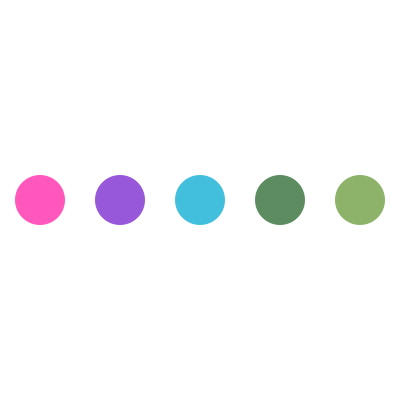
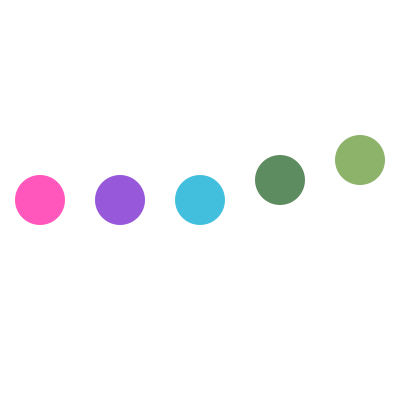
new loading animation

Changed region(s): [[0.84, 0.33, 0.96, 0.57], [0.63, 0.39, 0.78, 0.57]]

diff --git a/music_starter.js b/music_starter.js
@@ -32,7 +32,7 @@ function draw_one_frame(words, vocal, drum, bass, other, counter) {
     globe.push(loadImage('assets/globe/0.png'));globe.push(loadImage('assets/globe/1.png'));globe.push(loadImage('assets/globe/2.png'));globe.push(loadImage('assets/globe/3.png'));globe.push(loadImage('assets/globe/4.png'));globe.push(loadImage('assets/globe/5.png'));globe.push(loadImage('assets/globe/6.png'));globe.push(loadImage('assets/globe/7.png'));globe.push(loadImage('assets/globe/8.png'));globe.push(loadImage('assets/globe/9.png'));globe.push(loadImage('assets/globe/10.png'));globe.push(loadImage('assets/globe/11.png'));globe.push(loadImage('assets/globe/12.png'));globe.push(loadImage('assets/globe/13.png'));globe.push(loadImage('assets/globe/14.png'));globe.push(loadImage('assets/globe/15.png'));globe.push(loadImage('assets/globe/16.png'));globe.push(loadImage('assets/globe/17.png'));globe.push(loadImage('assets/globe/18.png'));globe.push(loadImage('assets/globe/19.png'));globe.push(loadImage('assets/globe/20.png'));globe.push(loadImage('assets/globe/21.png'));globe.push(loadImage('assets/globe/22.png'));globe.push(loadImage('assets/globe/23.png'));globe.push(loadImage('assets/globe/24.png'));globe.push(loadImage('assets/globe/25.png'));globe.push(loadImage('assets/globe/26.png'));globe.push(loadImage('assets/globe/27.png'));globe.push(loadImage('assets/globe/28.png'));globe.push(loadImage('assets/globe/29.png'));globe.push(loadImage('assets/globe/30.png'));globe.push(loadImage('assets/globe/31.png'));globe.push(loadImage('assets/globe/32.png'));globe.push(loadImage('assets/globe/33.png'));globe.push(loadImage('assets/globe/34.png'));globe.push(loadImage('assets/globe/35.png'));globe.push(loadImage('assets/globe/36.png'));globe.push(loadImage('assets/globe/37.png'));globe.push(loadImage('assets/globe/38.png'));globe.push(loadImage('assets/globe/39.png'));globe.push(loadImage('assets/globe/40.png'));globe.push(loadImage('assets/globe/41.png'));globe.push(loadImage('assets/globe/42.png'));globe.push(loadImage('assets/globe/43.png'));globe.push(loadImage('assets/globe/44.png'));globe.push(loadImage('assets/globe/45.png'));globe.push(loadImage('assets/globe/46.png'));globe.push(loadImage('assets/globe/47.png'));globe.push(loadImage('assets/globe/48.png'));globe.push(loadImage('assets/globe/49.png'));globe.push(loadImage('assets/globe/50.png'));globe.push(loadImage('assets/globe/51.png'));globe.push(loadImage('assets/globe/52.png'));globe.push(loadImage('assets/globe/53.png'));globe.push(loadImage('assets/globe/54.png'));globe.push(loadImage('assets/globe/55.png'));globe.push(loadImage('assets/globe/56.png'));globe.push(loadImage('assets/globe/57.png'));globe.push(loadImage('assets/globe/58.png'));globe.push(loadImage('assets/globe/59.png'));globe.push(loadImage('assets/globe/60.png'));globe.push(loadImage('assets/globe/61.png'));globe.push(loadImage('assets/globe/62.png'));globe.push(loadImage('assets/globe/63.png'));globe.push(loadImage('assets/globe/64.png'));globe.push(loadImage('assets/globe/65.png'));globe.push(loadImage('assets/globe/66.png'));globe.push(loadImage('assets/globe/67.png'));globe.push(loadImage('assets/globe/68.png'));globe.push(loadImage('assets/globe/69.png'));globe.push(loadImage('assets/globe/70.png'));globe.push(loadImage('assets/globe/71.png'));globe.push(loadImage('assets/globe/72.png'));globe.push(loadImage('assets/globe/73.png'));globe.push(loadImage('assets/globe/74.png'));globe.push(loadImage('assets/globe/75.png'));globe.push(loadImage('assets/globe/76.png'));globe.push(loadImage('assets/globe/77.png'));globe.push(loadImage('assets/globe/78.png'));globe.push(loadImage('assets/globe/79.png'));globe.push(loadImage('assets/globe/80.png'));globe.push(loadImage('assets/globe/81.png'));globe.push(loadImage('assets/globe/82.png'));globe.push(loadImage('assets/globe/83.png'));globe.push(loadImage('assets/globe/84.png'));globe.push(loadImage('assets/globe/85.png'));globe.push(loadImage('assets/globe/86.png'));globe.push(loadImage('assets/globe/87.png'));globe.push(loadImage('assets/globe/88.png'));globe.push(loadImage('assets/globe/89.png'));
     noiseOverlay.push(loadImage('assets/bg/noise_0.png'));noiseOverlay.push(loadImage('assets/bg/noise_1.png'));noiseOverlay.push(loadImage('assets/bg/noise_2.png'));noiseOverlay.push(loadImage('assets/bg/noise_3.png'));noiseOverlay.push(loadImage('assets/bg/noise_4.png'));noiseOverlay.push(loadImage('assets/bg/noise_5.png'));noiseOverlay.push(loadImage('assets/bg/noise_6.png'));noiseOverlay.push(loadImage('assets/bg/noise_7.png'));noiseOverlay.push(loadImage('assets/bg/noise_8.png'));noiseOverlay.push(loadImage('assets/bg/noise_9.png'));noiseOverlay.push(loadImage('assets/bg/noise_10.png'));noiseOverlay.push(loadImage('assets/bg/noise_11.png'));
     scrollingText.push(loadImage('assets/text/0.png'));scrollingText.push(loadImage('assets/text/1.png'));scrollingText.push(loadImage('assets/text/2.png'));scrollingText.push(loadImage('assets/text/3.png'));scrollingText.push(loadImage('assets/text/4.png'));scrollingText.push(loadImage('assets/text/5.png'));scrollingText.push(loadImage('assets/text/6.png'));scrollingText.push(loadImage('assets/text/7.png'));scrollingText.push(loadImage('assets/text/8.png'));scrollingText.push(loadImage('assets/text/9.png'));scrollingText.push(loadImage('assets/text/10.png'));scrollingText.push(loadImage('assets/text/11.png'));scrollingText.push(loadImage('assets/text/12.png'));scrollingText.push(loadImage('assets/text/13.png'));scrollingText.push(loadImage('assets/text/14.png'));scrollingText.push(loadImage('assets/text/15.png'));scrollingText.push(loadImage('assets/text/16.png'));scrollingText.push(loadImage('assets/text/17.png'));scrollingText.push(loadImage('assets/text/18.png'));scrollingText.push(loadImage('assets/text/19.png'));scrollingText.push(loadImage('assets/text/20.png'));scrollingText.push(loadImage('assets/text/21.png'));scrollingText.push(loadImage('assets/text/22.png'));scrollingText.push(loadImage('assets/text/23.png'));scrollingText.push(loadImage('assets/text/24.png'));scrollingText.push(loadImage('assets/text/25.png'));scrollingText.push(loadImage('assets/text/26.png'));scrollingText.push(loadImage('assets/text/27.png'));scrollingText.push(loadImage('assets/text/28.png'));scrollingText.push(loadImage('assets/text/29.png'));scrollingText.push(loadImage('assets/text/30.png'));scrollingText.push(loadImage('assets/text/31.png'));scrollingText.push(loadImage('assets/text/32.png'));scrollingText.push(loadImage('assets/text/33.png'));scrollingText.push(loadImage('assets/text/34.png'));scrollingText.push(loadImage('assets/text/35.png'));scrollingText.push(loadImage('assets/text/36.png'));scrollingText.push(loadImage('assets/text/37.png'));scrollingText.push(loadImage('assets/text/38.png'));scrollingText.push(loadImage('assets/text/39.png'));scrollingText.push(loadImage('assets/text/40.png'));scrollingText.push(loadImage('assets/text/41.png'));scrollingText.push(loadImage('assets/text/42.png'));scrollingText.push(loadImage('assets/text/43.png'));scrollingText.push(loadImage('assets/text/44.png'));scrollingText.push(loadImage('assets/text/45.png'));scrollingText.push(loadImage('assets/text/46.png'));scrollingText.push(loadImage('assets/text/47.png'));scrollingText.push(loadImage('assets/text/48.png'));scrollingText.push(loadImage('assets/text/49.png'));scrollingText.push(loadImage('assets/text/50.png'));scrollingText.push(loadImage('assets/text/51.png'));scrollingText.push(loadImage('assets/text/52.png'));scrollingText.push(loadImage('assets/text/53.png'));scrollingText.push(loadImage('assets/text/54.png'));scrollingText.push(loadImage('assets/text/55.png'));scrollingText.push(loadImage('assets/text/56.png'));scrollingText.push(loadImage('assets/text/57.png'));scrollingText.push(loadImage('assets/text/58.png'));scrollingText.push(loadImage('assets/text/59.png'));scrollingText.push(loadImage('assets/text/60.png'));scrollingText.push(loadImage('assets/text/61.png'));scrollingText.push(loadImage('assets/text/62.png'));scrollingText.push(loadImage('assets/text/63.png'));scrollingText.push(loadImage('assets/text/64.png'));scrollingText.push(loadImage('assets/text/65.png'));scrollingText.push(loadImage('assets/text/66.png'));scrollingText.push(loadImage('assets/text/67.png'));scrollingText.push(loadImage('assets/text/68.png'));scrollingText.push(loadImage('assets/text/69.png'));scrollingText.push(loadImage('assets/text/70.png'));scrollingText.push(loadImage('assets/text/71.png'));scrollingText.push(loadImage('assets/text/72.png'));scrollingText.push(loadImage('assets/text/73.png'));scrollingText.push(loadImage('assets/text/74.png'));scrollingText.push(loadImage('assets/text/75.png'));scrollingText.push(loadImage('assets/text/76.png'));scrollingText.push(loadImage('assets/text/77.png'));scrollingText.push(loadImage('assets/text/78.png'));scrollingText.push(loadImage('assets/text/79.png'));scrollingText.push(loadImage('assets/text/80.png'));scrollingText.push(loadImage('assets/text/81.png'));scrollingText.push(loadImage('assets/text/82.png'));scrollingText.push(loadImage('assets/text/83.png'));scrollingText.push(loadImage('assets/text/84.png'));scrollingText.push(loadImage('assets/text/85.png'));scrollingText.push(loadImage('assets/text/86.png'));scrollingText.push(loadImage('assets/text/87.png'));scrollingText.push(loadImage('assets/text/88.png'));scrollingText.push(loadImage('assets/text/89.png'));scrollingText.push(loadImage('assets/text/90.png'));scrollingText.push(loadImage('assets/text/91.png'));scrollingText.push(loadImage('assets/text/92.png'));scrollingText.push(loadImage('assets/text/93.png'));
-    loading.push(loadImage('assets/loading/0.png'));loading.push(loadImage('assets/loading/1.png'));loading.push(loadImage('assets/loading/2.png'));loading.push(loadImage('assets/loading/3.png'));loading.push(loadImage('assets/loading/4.png'));loading.push(loadImage('assets/loading/5.png'));loading.push(loadImage('assets/loading/6.png'));loading.push(loadImage('assets/loading/7.png'));loading.push(loadImage('assets/loading/8.png'));loading.push(loadImage('assets/loading/9.png'));loading.push(loadImage('assets/loading/10.png'));loading.push(loadImage('assets/loading/11.png'));loading.push(loadImage('assets/loading/12.png'));loading.push(loadImage('assets/loading/13.png'));loading.push(loadImage('assets/loading/14.png'));
+    loading.push(loadImage('assets/loading/0.png'));loading.push(loadImage('assets/loading/1.png'));loading.push(loadImage('assets/loading/2.png'));loading.push(loadImage('assets/loading/3.png'));loading.push(loadImage('assets/loading/4.png'));loading.push(loadImage('assets/loading/5.png'));loading.push(loadImage('assets/loading/6.png'));loading.push(loadImage('assets/loading/7.png'));loading.push(loadImage('assets/loading/8.png'));loading.push(loadImage('assets/loading/9.png'));loading.push(loadImage('assets/loading/10.png'));loading.push(loadImage('assets/loading/11.png'));loading.push(loadImage('assets/loading/12.png'));loading.push(loadImage('assets/loading/13.png'));loading.push(loadImage('assets/loading/14.png'));loading.push(loadImage('assets/loading/15.png'));loading.push(loadImage('assets/loading/16.png'));loading.push(loadImage('assets/loading/17.png'));loading.push(loadImage('assets/loading/18.png'));
     firstRun = false;
     }
 
@@ -98,7 +98,7 @@ function draw_one_frame(words, vocal, drum, bass, other, counter) {
       pop();
 
       // let decimalPartLoading = counter % 0.5;
-      var loadingAnimation = int(map(other, 0, 100, 0, 15));
+      var loadingAnimation = int(map(other, 0, 100, 0, 19));
       image(loading[loadingAnimation], 100, height - 250, 150, 150);
 
       image(bg_1, width / 2, height - height / 4);
